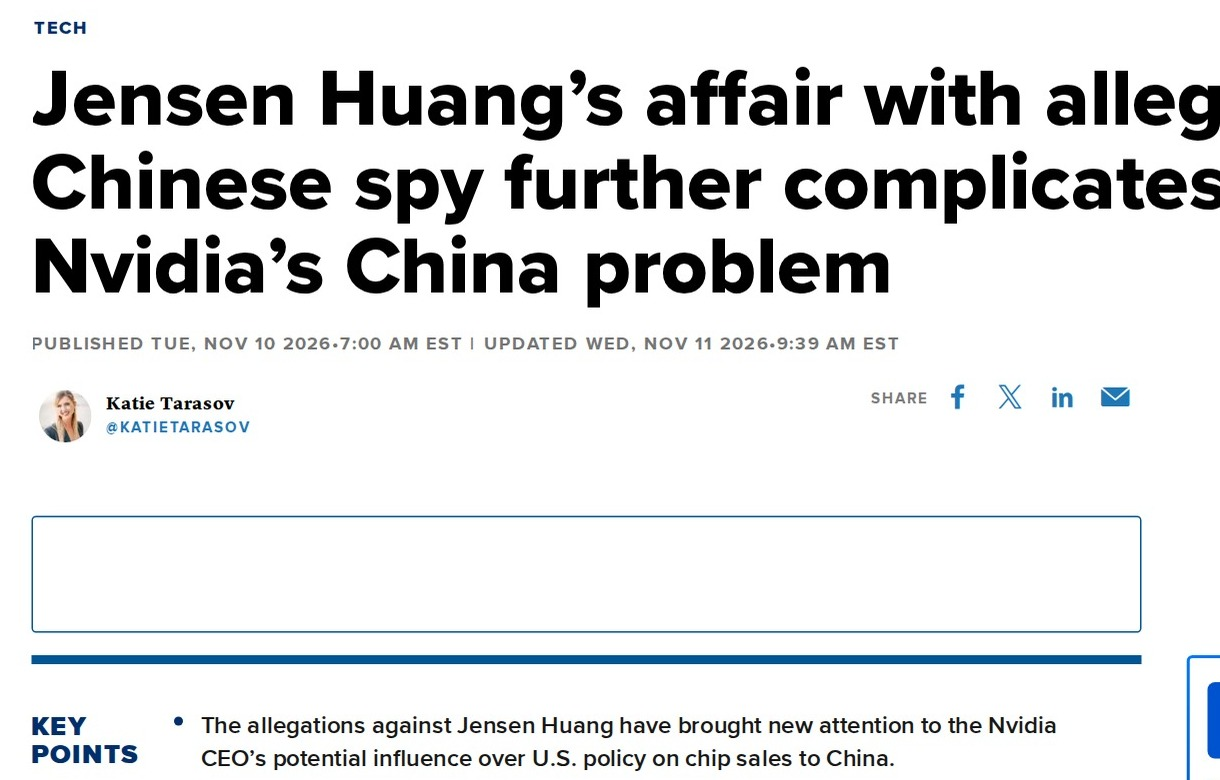
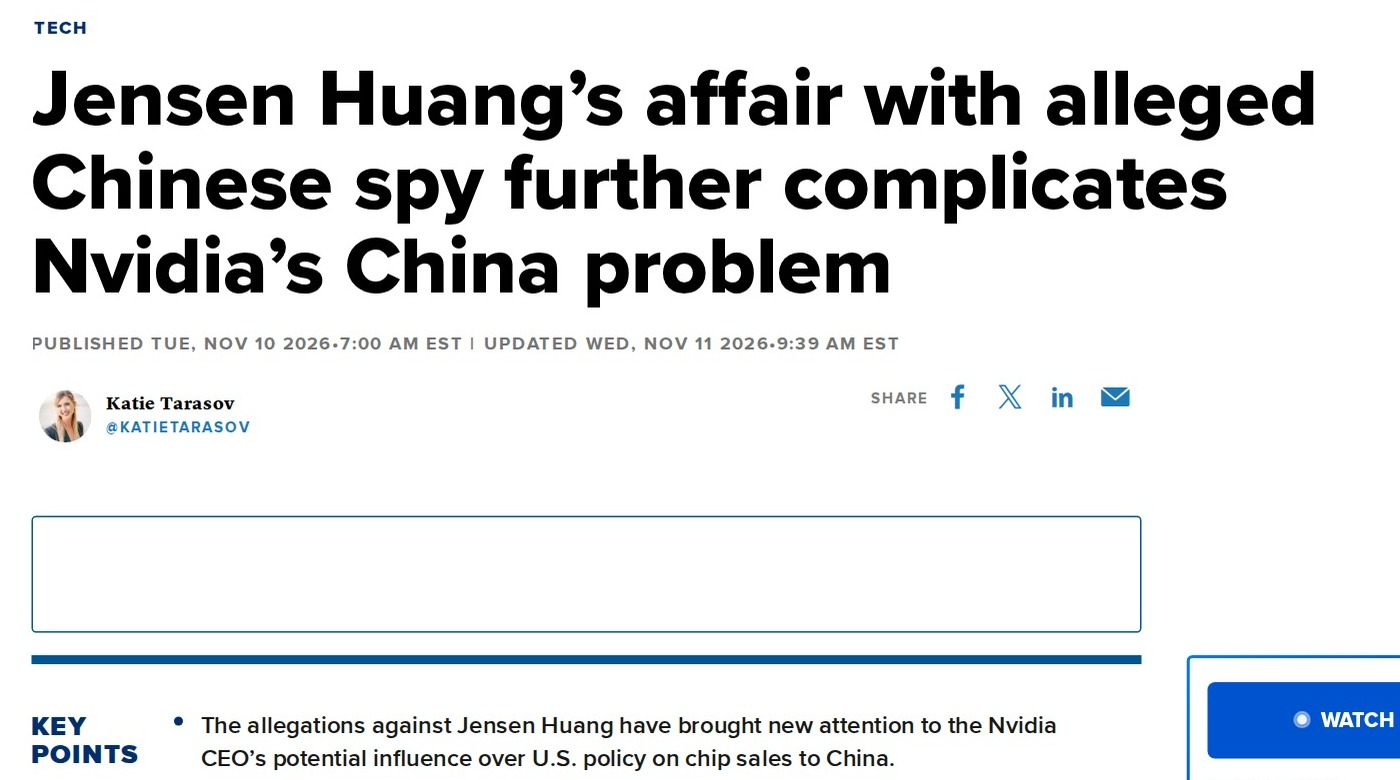
Shorts: no bar along the bottom, caption higher, whole CNBC headline [skip ci]
Claude-Session: https://claude.ai/code/session_01CTvnLS7TEWDTE3fQyBDcgb

diff --git a/video-pipeline/remotion/src/components/Captions.tsx b/video-pipeline/remotion/src/components/Captions.tsx
@@ -71,7 +71,7 @@ export const Captions: React.FC<{scenes: Scene[]; brand: Brand; host?: string; a
     const onBoard = isVertical && !!current && ['text', 'hook', 'takeaway', 'recap'].includes(current.type);
     const high = isVertical && (onBoard || setCaptionsHigh(scenes) || (!!current && current.type !== 'outro'));
     // a compare's title and a set piece's head sit just under 22%: there the caption rides a little higher, clear of both
-    const topAt = onBoard ? 0.44 : current && ['compare', 'set'].includes(current.type) ? 0.165 : 0.22;
+    const topAt = onBoard ? 0.44 : current && ['compare', 'set'].includes(current.type) ? 0.135 : 0.22;
     return (
       <AbsoluteFill style={high ? {justifyContent: 'flex-start', alignItems: 'center', paddingTop: height * topAt} : {justifyContent: 'flex-end', alignItems: 'center', paddingBottom: isVertical ? height * 0.3 : 52 * u, ...sideStyle}}>
         <div style={{maxWidth: `calc(100% - ${pad * 2}px)`, fontFamily: isVertical ? brand.display : brand.font, fontSize: (isVertical ? (high ? 76 : 78) : 40) * u, fontWeight: isVertical ? 800 : 700, lineHeight: 1.2, textAlign: 'center', color: brand.ink, ...(high ? {background: 'rgba(255,255,255,0.94)', borderRadius: 24 * u, padding: `${10 * u}px ${30 * u}px`} : {})}}>

diff --git a/video-pipeline/remotion/src/components/Chrome.tsx b/video-pipeline/remotion/src/components/Chrome.tsx
@@ -14,7 +14,7 @@ export const Chrome: React.FC<{brand: Brand; durationSec: number}> = ({brand, du
     return (
       <AbsoluteFill style={{pointerEvents: 'none'}}>
         {brand.corner !== false && brand.name ? <div style={{position: 'absolute', top: (isVertical ? 36 : 30) * u, right: pad, fontFamily: brand.hand, fontSize: 30 * u, color: brand.muted, transform: 'rotate(2deg)'}}>{brand.name.toLowerCase()}</div> : null}
-        <div style={{position: 'absolute', bottom: 0, left: 0, height: 5 * u, width: `${progress * 100}%`, background: brand.accent, opacity: 0.6}} />
+        {isVertical ? null : <div style={{position: 'absolute', bottom: 0, left: 0, height: 5 * u, width: `${progress * 100}%`, background: brand.accent, opacity: 0.6}} />}
       </AbsoluteFill>
     );
   }

diff --git a/video-pipeline/projects/nvidia-400-billion/script.md b/video-pipeline/projects/nvidia-400-billion/script.md
@@ -75,7 +75,7 @@ So why would a spy even care about a company that makes chips?
 [broll search="server room data centre racks" caption="A data centre" cards="ink:what AI runs on@runs; ink:most big AI systems: trained on Nvidia's chips@trained; ink:the thing you want@thing" src="16-server-room-data-centre-racks.mp4" credit="Video 14906 by cipnt via Pixabay"]
 Because those chips are pretty much what AI runs on. Most of the big AI systems in the world are trained on Nvidia's chips. So if you're a country that wants to win at AI, this is the thing you want.
 
-[broll src="real-cnbc-china.jpg" vsrc="real-cnbc-china-v.jpg" vfit=contain w=1220 h=780 zoom=in caption="CNBC, 10 November 2026" credit="cnbc.com" cards="ink:US limits on its chips@limits; ink:what can be sold to China@China; ink:he pushed to loosen those rules@loosen; ink:direct access to the president@access; ink:a chip analyst, to CNBC@analyst; ink:35 years@35; ink:this much influence on export policy@influence"]
+[broll src="real-cnbc-china.jpg" vsrc="real-cnbc-china-v.jpg" vfit=contain w=1400 h=780 zoom=in caption="CNBC, 10 November 2026" credit="cnbc.com" cards="ink:US limits on its chips@limits; ink:what can be sold to China@China; ink:he pushed to loosen those rules@loosen; ink:direct access to the president@access; ink:a chip analyst, to CNBC@analyst; ink:35 years@35; ink:this much influence on export policy@influence"]
 And here's the thing. The US limits which of those chips can be sold to China. Jensen Huang has publicly pushed to loosen those rules, and he's had direct access to the president. One chip analyst told CNBC that in 35 years, he's never seen a chip CEO with this much influence on export policy.
 
 [broll search="shipping containers port cranes" pick=2 caption="If you believe the reporting" cards="ink:not only about secrets@secrets; ink:about influence@influence; ink:how he thinks about selling to China@thinks; ink:but that's the claim@claim; ink:what the investigation is for@investigation" src="18-shipping-containers-port-cranes.mp4" credit="Video 23008 by bellergy via Pixabay"]
